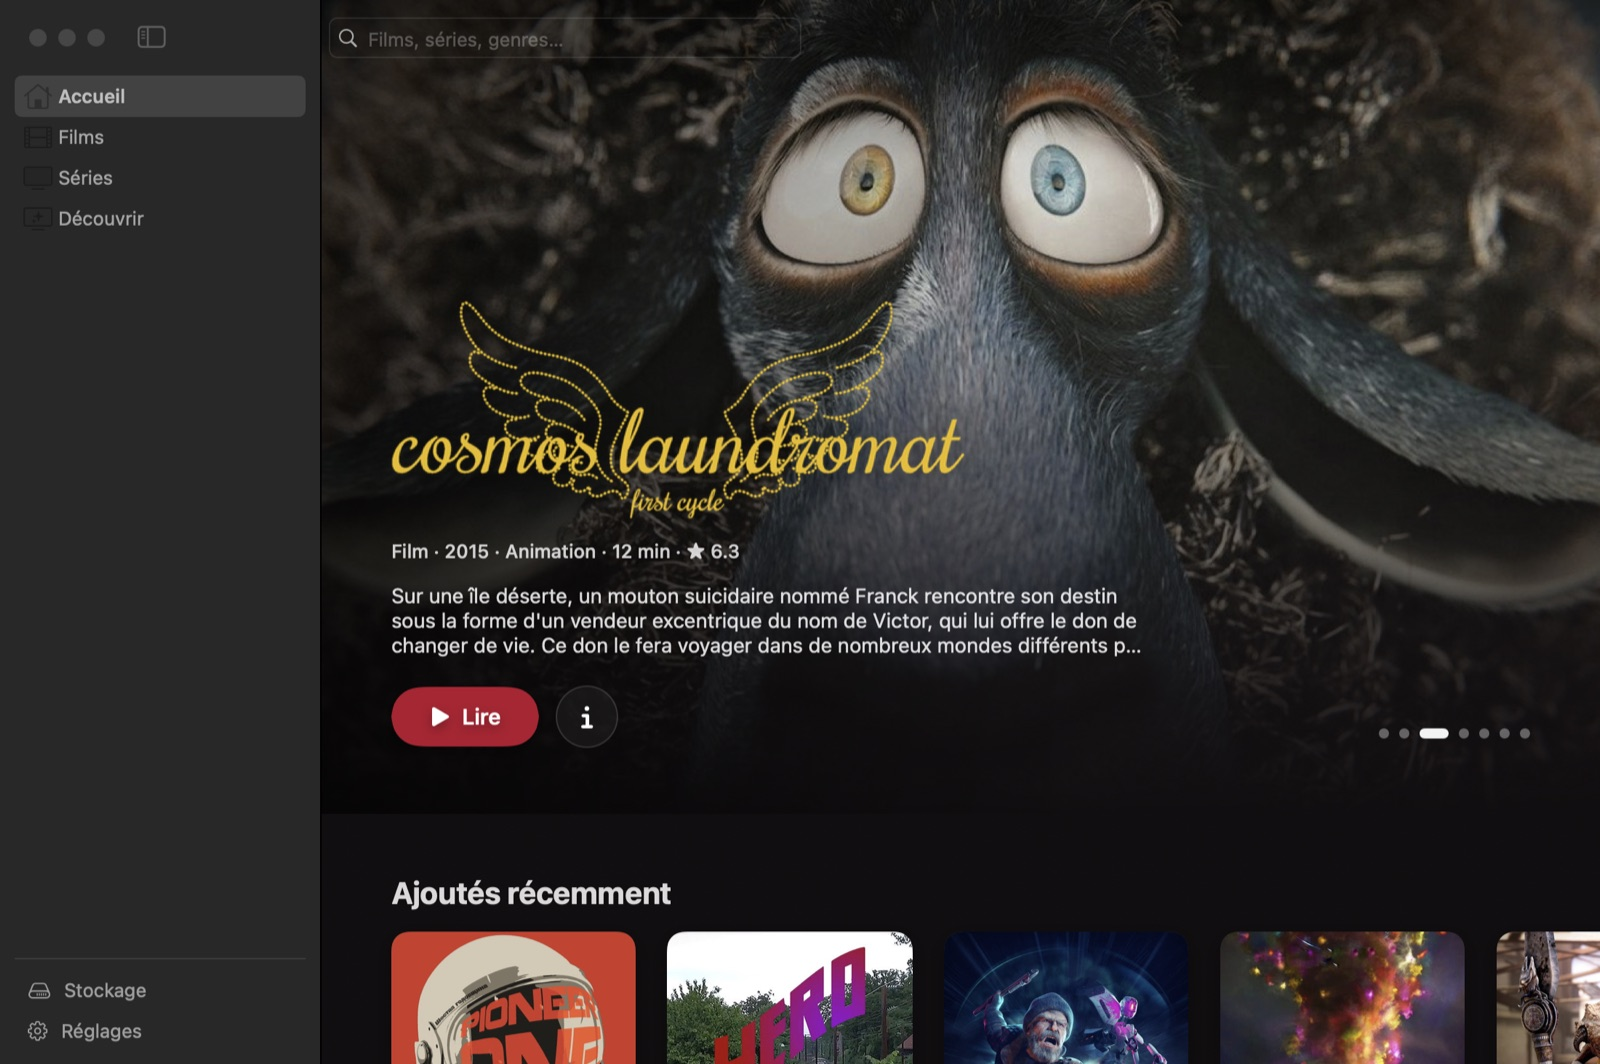
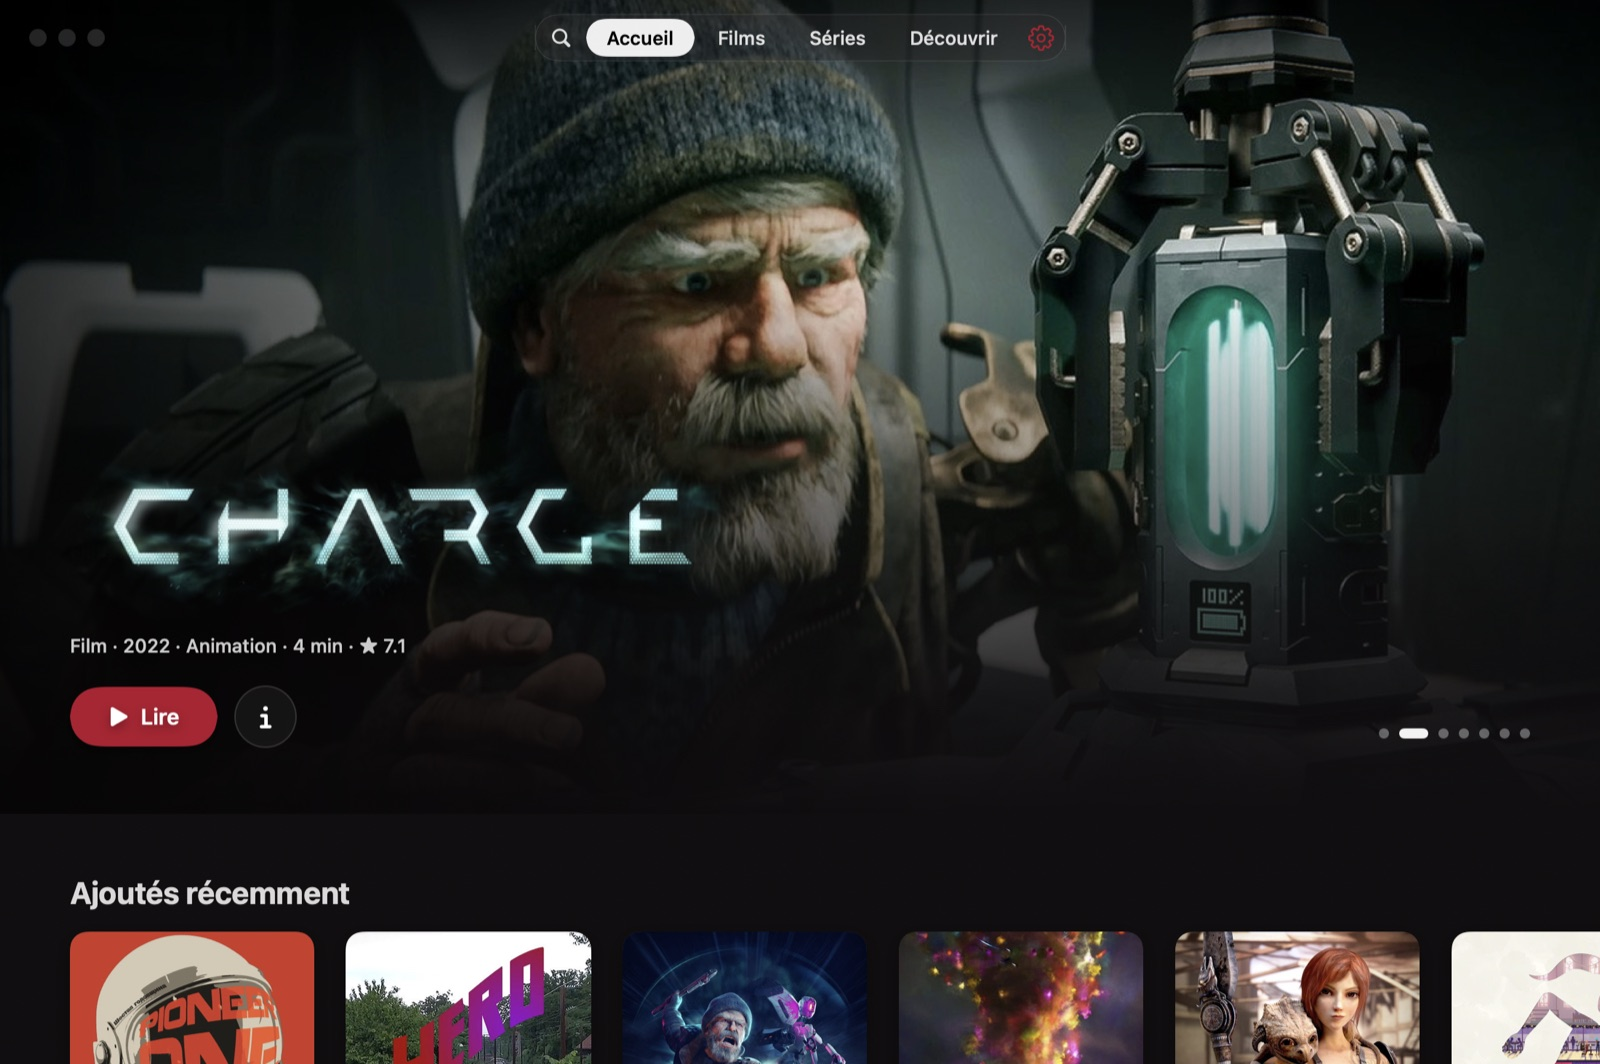
Documentation : README.env.md, captures et notes de la 0.1.1
Obtenir une clé TMDb (v3 ou jeton v4) et brancher un indexeur Torznab pas à pas ; mention TMDb officielle dans le README et les réglages.

diff --git a/README.env.md b/README.env.md
@@ -1,0 +1,113 @@
+# Configurer ses clés (`.env` ou Réglages)
+
+Strapontin a besoin d'une clé **TMDb** pour les fiches (affiches, résumés, épisodes). Pour télécharger, il peut aussi
+se brancher sur un **indexeur Torznab** de ton choix. Ce guide explique où trouver chaque valeur et où la mettre.
+
+## Deux façons de configurer
+
+1. **Les Réglages de l'app** (rien à compiler) : Réglages › Fiches pour TMDb, Réglages › Indexeur pour l'indexeur.
+   **Ce qui est saisi dans les Réglages passe toujours avant le `.env`.**
+2. **Le fichier `.env`**, pour qui compile sa propre copie avec `scripts/bundle.sh` : les valeurs sont intégrées à
+   l'app au moment de la construction, il n'y a plus rien à saisir. Les valeurs de l'indexeur sont ensuite recopiées
+   dans les réglages au premier lancement (Réglages › Indexeur affiche alors « Fourni par la configuration de build »).
+
+Les versions publiées sur GitHub contiennent une clé TMDb, mais **jamais d'indexeur** : la CI ignore les variables
+`INDEXER_*`.
+
+## Le fichier `.env`
+
+Il se place **à la racine du dépôt**, à côté de `Package.swift`. Il n'est jamais versionné (il est dans `.gitignore`).
+Pars du modèle :
+
+```sh
+cp .env.example .env
+```
+
+puis remplis ce dont tu as besoin. Exemple avec des valeurs **factices** :
+
+```sh
+TMDB_API_KEY=0123456789abcdef0123456789abcdef
+INDEXER_URL=https://indexeur.exemple
+INDEXER_API_PATH=/api
+INDEXER_API_KEY=ma-cle-api-factice
+```
+
+| Variable | Rôle |
+|---|---|
+| `TMDB_API_KEY` | clé TMDb : fiches, affiches, épisodes, Découvrir, recherche dans le catalogue |
+| `INDEXER_URL` | adresse de base de l'indexeur (`https://…`) |
+| `INDEXER_API_PATH` | chemin de son API Torznab (souvent `/api`) ; l'app appelle `INDEXER_URL` + `INDEXER_API_PATH` |
+| `INDEXER_API_KEY` | ta clé API sur cet indexeur |
+
+`scripts/bundle.sh` lit ce fichier ligne à ligne, sans l'exécuter, et seulement ces variables (plus `STRAPONTIN_VERSION`,
+`STRAPONTIN_BUILD` et `STRAPONTIN_FEED_URL`, utiles pour publier). Pendant le développement (`swift run`), les mêmes
+variables peuvent être passées dans l'environnement.
+
+## Obtenir une clé TMDb
+
+D'après la documentation de TMDb ([Getting Started](https://developer.themoviedb.org/docs/getting-started),
+consultée le 23/11/2026) :
+
+1. Crée un compte sur [themoviedb.org](https://www.themoviedb.org) (de préférence depuis un ordinateur : l'inscription à
+   l'API n'est pas adaptée au mobile).
+2. Dans les paramètres de ton compte, ouvre la section **API** ([lien direct](https://www.themoviedb.org/settings/api)).
+3. Demande une clé et accepte les [conditions d'utilisation de l'API](https://www.themoviedb.org/documentation/api/terms-of-use).
+   L'usage gratuit est un usage **non commercial**.
+4. La page API affiche alors deux valeurs :
+   - la **clé API** (« API Key », v3) : une suite de 32 caractères hexadécimaux ;
+   - le **jeton d'accès en lecture** (« API Read Access Token », v4), qui commence par `eyJ`.
+
+**Strapontin accepte les deux** : la clé v3 est envoyée en paramètre `api_key`, un jeton qui commence par `eyJ` est
+envoyé en `Authorization: Bearer`. Le plus simple est de copier la **clé API (v3)**.
+
+Vérifier une clé : Réglages › Fiches › « Tester la clé », ou dans un terminal :
+
+```sh
+curl "https://api.themoviedb.org/3/configuration?api_key=TA_CLE"
+```
+
+Une réponse JSON = c'est bon ; `401` = clé invalide ou mal copiée (espace en trop, jeton tronqué).
+
+## Brancher un indexeur Torznab
+
+Torznab est une API standard de recherche de torrents. Strapontin peut l'interroger de deux façons.
+
+**Directement sur l'indexeur**, s'il expose une API Torznab : l'adresse, le chemin de l'API et ta clé se trouvent en
+général dans ton profil ou tes paramètres sur le site (rubrique API ou Torznab). Prends bien la **clé API**, pas une
+passkey (l'identifiant qui apparaît dans les liens de téléchargement).
+
+**Via Prowlarr ou Jackett**, qui exposent un flux Torznab pour chaque indexeur configuré chez eux :
+
+- **Prowlarr** : chaque indexeur a son flux, de la forme `http://localhost:9696/<n°>/api` ; la clé est dans
+  Settings › General › API Key.
+- **Jackett** : sur la ligne de l'indexeur, « Copy Torznab Feed » donne une adresse de la forme
+  `http://localhost:9117/api/v2.0/indexers/<nom>/results/torznab/`. La clé API est affichée en haut de la page.
+
+Dans Réglages › Indexeur, l'**adresse de l'API** est l'adresse complète (base + chemin). Dans le `.env`, sépare la base
+(`INDEXER_URL`) et le chemin (`INDEXER_API_PATH`).
+
+Les catégories standard (2000 pour les films, 5000 pour les séries) conviennent presque toujours. Change-les dans les
+réglages seulement si ton indexeur en utilise d'autres.
+
+### Vérifier que ça marche
+
+Bouton « Tester » dans Réglages › Indexeur, ou dans un terminal (`t=caps` demande à l'indexeur ce qu'il sait faire) :
+
+```sh
+curl "https://indexeur.exemple/api?t=caps&apikey=TA_CLE"
+```
+
+- Un document XML qui commence par `<caps>` : c'est bon.
+- `401`, `403` ou une erreur `100` : la clé est refusée (mauvaise clé, ou passkey au lieu de la clé API).
+- Une page HTML : le chemin de l'API n'est pas le bon.
+- Pas de réponse : adresse erronée, ou DNS de ton fournisseur d'accès qui bloque le site (essaie un autre DNS).
+
+## Dépannage
+
+| Symptôme | Piste |
+|---|---|
+| Les fiches ne se chargent pas, « Clé TMDb refusée » | clé mal copiée ; réessaie avec la clé API (v3) de la page API de TMDb |
+| Les valeurs du `.env` ne sont pas prises | le `.env` doit être à la racine du dépôt, une variable par ligne, sans espaces autour du `=` ; relance `scripts/bundle.sh` |
+| Une valeur du `.env` semble ignorée | une valeur saisie dans les Réglages passe avant : vide le champ pour revenir à celle du `.env` |
+| « Aucun indexeur branché » | il faut l'adresse **et** la clé ; la version téléchargée sur GitHub n'en contient jamais |
+| L'indexeur répond mais rien ne sort | vérifie les catégories (Réglages › Indexeur) |

diff --git a/README.md b/README.md
@@ -34,9 +34,11 @@ documentation are in French.*
 - Fiche erronée : « Corriger la fiche », et la page suit la nouvelle fiche.
 
 **Interface**
-- Barre latérale repliable (⌃⌘S, et d'elle-même quand la fenêtre est étroite) : Accueil, Films, Séries, Découvrir,
-  téléchargements en cours, Stockage, Réglages. Une seule recherche, en haut de la fenêtre (⌘F) : ta bibliothèque
-  et tout le catalogue TMDb.
+- Navigation façon Apple TV : une barre d'onglets translucide qui flotte sur les images (Accueil, Films, Séries,
+  Découvrir, téléchargements en cours) et s'efface quand on fait défiler. Une seule recherche (loupe ou ⌘F) : ta
+  bibliothèque et tout le catalogue TMDb, section par section.
+- Tout réagit tout de suite : un téléchargement lancé apparaît aussitôt, une pause, une suppression ou une fiche
+  corrigée se voient avant même la réponse du moteur ou du réseau (et reviennent en arrière si ça échoue).
 - Grand visuel plein cadre qui défile avec le logo du titre ; rangées « À suivre » (avec progression),
   « Ajoutés récemment », par genre ; fiches immersives, distribution, informations.
 - Séries épisode par épisode : image, date, durée et résumé de chaque épisode, une fiche par épisode avec
@@ -78,6 +80,9 @@ Configuration requise : Mac Apple Silicon, macOS 14 ou plus.
 
 ## Configurer
 
+Toutes les clés se saisissent dans les Réglages, ou dans un fichier `.env` si tu compiles ta copie : voir
+**[README.env.md](README.env.md)** pour obtenir une clé TMDb et brancher un indexeur pas à pas.
+
 | Réglage | Où | |
 |---|---|---|
 | Dossiers de la bibliothèque | Réglages › Bibliothèque | `~/Documents/Films` et `~/Documents/Séries` par défaut |
@@ -93,7 +98,7 @@ Les clés restent sur ton Mac (la clé de l'indexeur dans un fichier lisible par
 
 ```sh
 brew install mpv dylibbundler pkg-config transmission-cli molten-vk
-cp .env.example .env        # puis renseigne TMDB_API_KEY (facultatif)
+cp .env.example .env        # puis renseigne-le (voir README.env.md)
 swift test
 ./scripts/bundle.sh         # build/Strapontin.app, build/Strapontin.dmg, build/Strapontin.zip
 ```
@@ -153,4 +158,4 @@ contient doit l'être sous une licence compatible.
 - [Transmission](https://transmissionbt.com) : moteur de téléchargement intégré.
 - [Sparkle](https://sparkle-project.org) : mises à jour (licence MIT).
 - [TMDb](https://www.themoviedb.org) : fiches, affiches et images.
-  *This product uses the TMDB API but is not endorsed or certified by TMDB.*
+  *This product uses TMDB and the TMDB APIs but is not endorsed, certified, or otherwise approved by TMDB.*

diff --git a/CHANGELOG.md b/CHANGELOG.md
@@ -3,6 +3,20 @@
 Format inspiré de [Keep a Changelog](https://keepachangelog.com/fr/1.1.0/), versions [SemVer](https://semver.org/lang/fr/).
 La section d'une version sert de notes à sa release GitHub.
 
+## [0.1.1] - 2026-11-23
+
+- Navigation façon Apple TV : barre d'onglets translucide qui flotte sur les images et s'efface en défilant ;
+  la barre latérale disparaît. Une page Recherche avec le seul champ de l'app (loupe ou ⌘F).
+- Recherche : sections Bibliothèque, Films et Séries affichées tout de suite, chacune remplie dès que sa réponse
+  arrive (squelettes d'affiches pendant l'attente), « Aucun résultat » ou erreur par section ; pastilles de l'indexeur
+  chargées ensuite, sans bloquer les affiches.
+- Plus rapide : réponses TMDb et images en cache (mémoire et disque), une seule connexion réutilisée, identification
+  de la bibliothèque en parallèle, fiche préchargée au survol d'une affiche.
+- Interface optimiste : lancer, mettre en pause, reprendre ou annuler un téléchargement, supprimer un titre, corriger
+  une fiche se voit immédiatement, avec retour en arrière et message discret si l'action échoue.
+- Nouvelle icône : un fauteuil de cinéma rouge.
+- README.env.md : obtenir une clé TMDb et brancher un indexeur pas à pas.
+
 ## [0.1.0] - 2026-11-23
 
 Première version publique. Strapontin s'appelait « Lecteur » : ses données et réglages sont repris au premier
